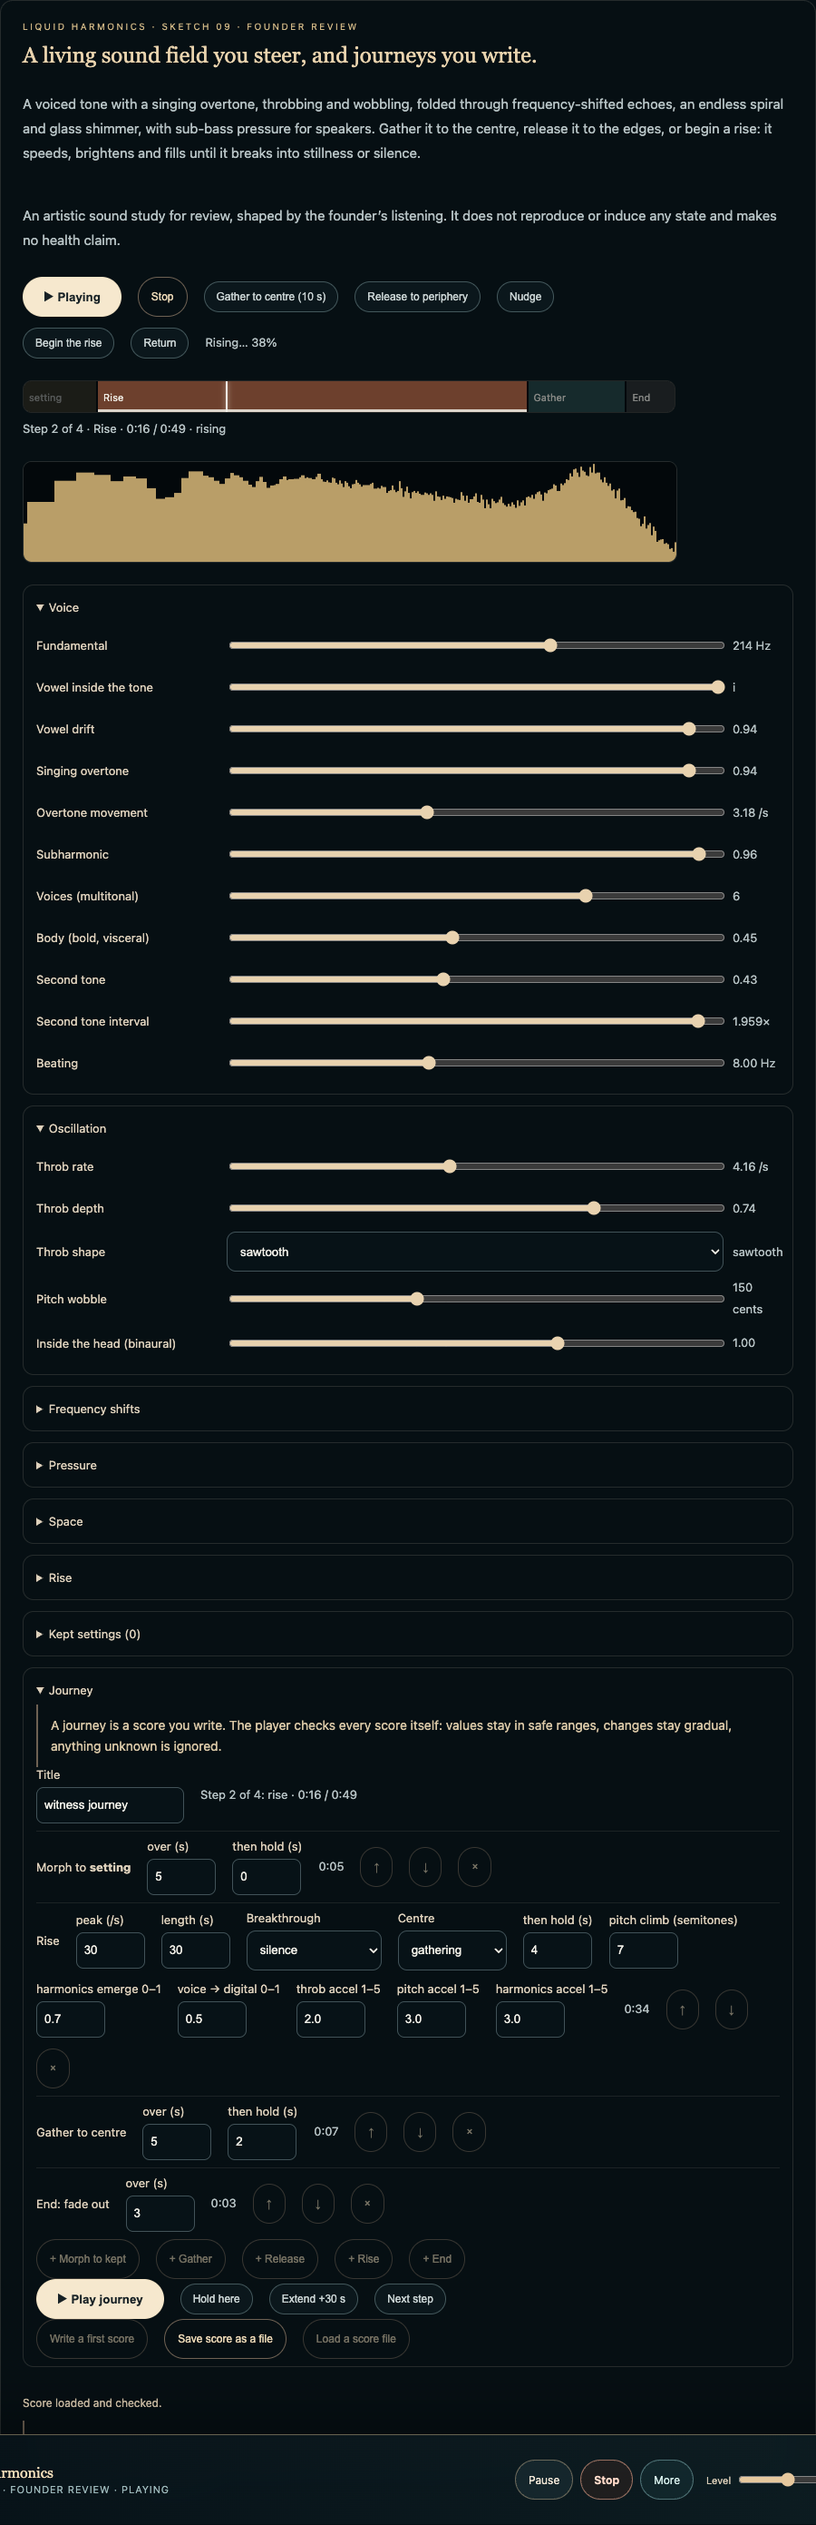
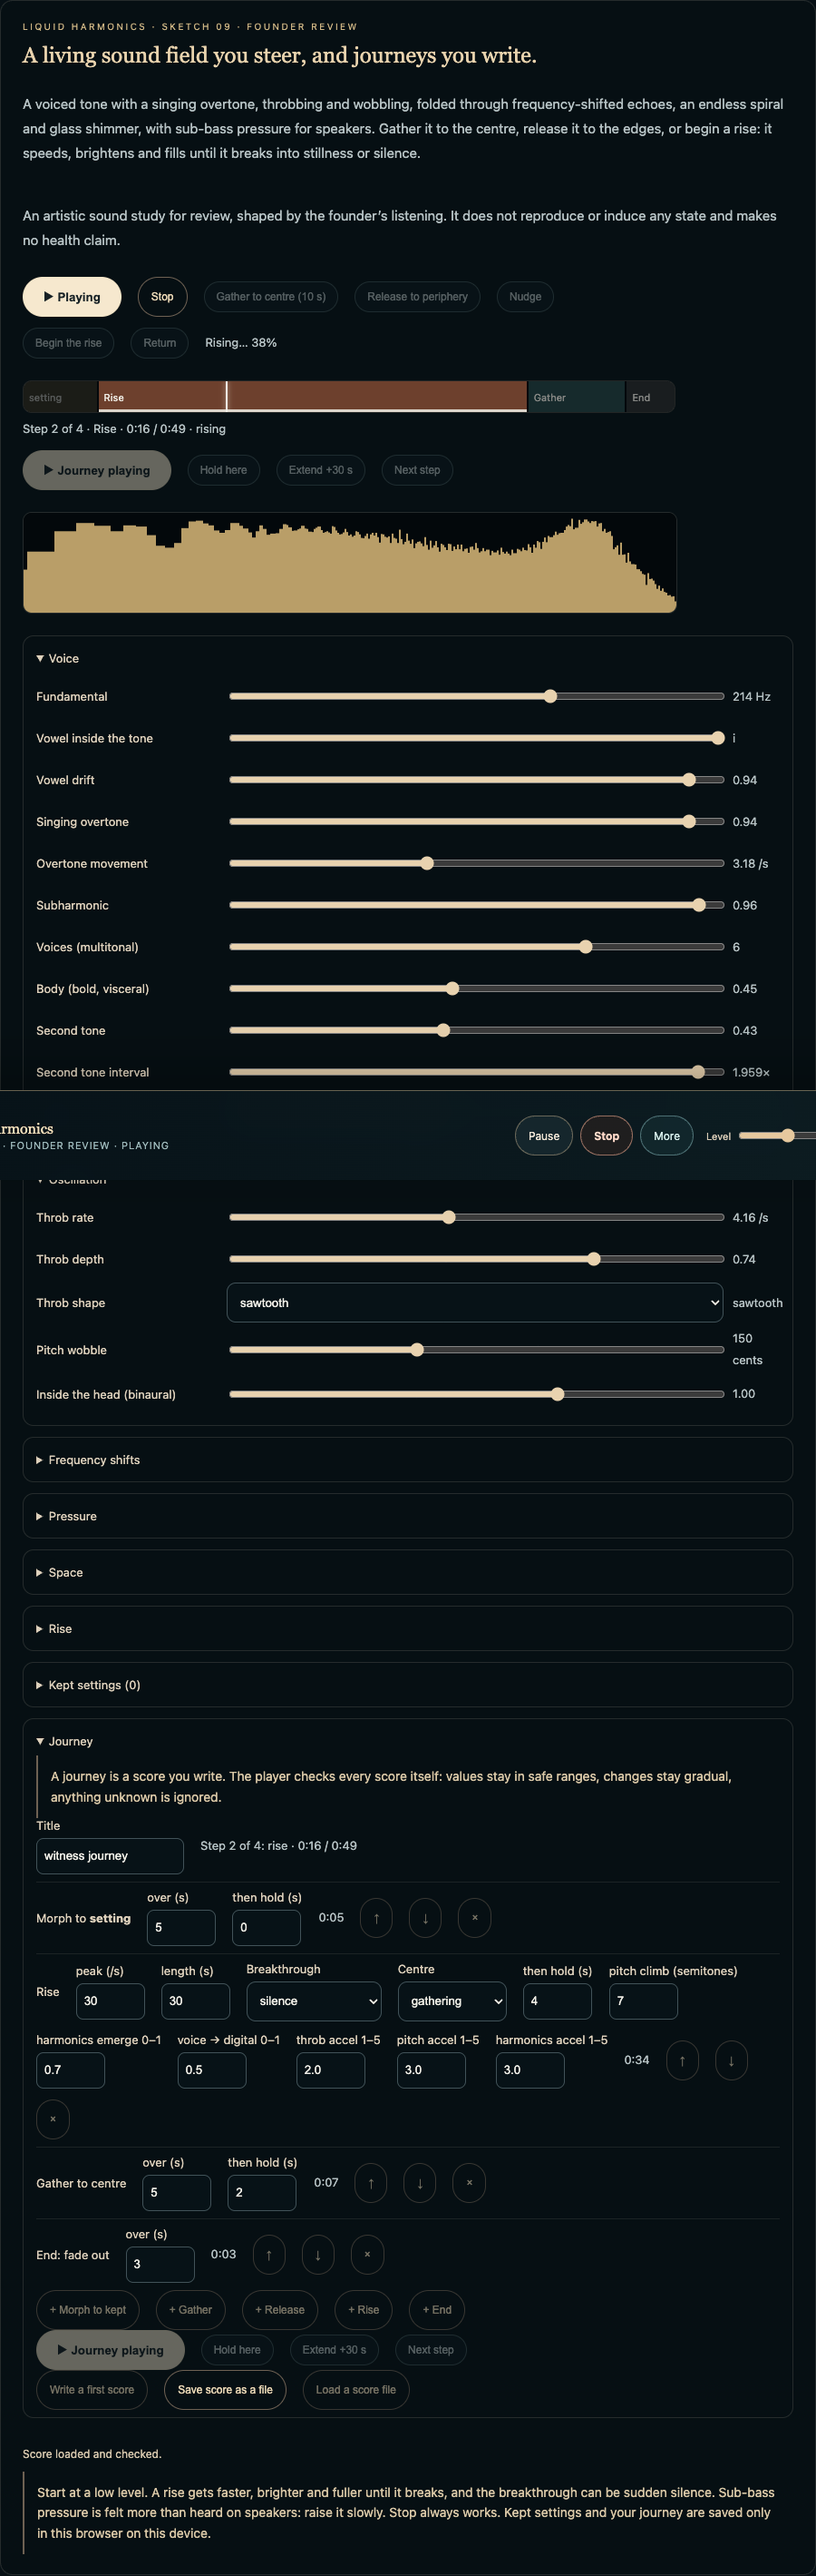
LISTEN-01: Liquid Harmonics journey controls under the timeline (review-only)
Founder: the timeline is at the top but journeys are played at the bottom.
- Play journey / Hold / Extend / Next repeated directly under the timeline.
- Play journey reads 'Journey playing' and is visibly greyed while it runs;
  disabled journey controls dim (scoped to this desk).
- Witness 10/10 now starts the journey from the top row and checks locks.
Review branch only: no merge, deploy, flag or member-access change.

Changed region(s): [[0.0, 0.0, 1.0, 0.9892], [0.4978, 0.7419, 0.9022, 0.8037], [0.6222, 0.0927, 0.6533, 0.1237]]

diff --git a/app/listen/LiquidHarmonicsDesk.tsx b/app/listen/LiquidHarmonicsDesk.tsx
@@ -162,6 +162,15 @@ export default function LiquidHarmonicsDesk() {
     </label>
   );
 
+  // The same four journey controls appear under the timeline (top) and in the Journey panel (bottom).
+  // Distinct data attributes per place, so each can be checked on its own.
+  const journeyButtons = (at: '' | 'top-') => <>
+    <button type="button" className={`${styles.play} ${styles.liquidPlay}`} {...{ [`data-liquid-${at}journey-play`]: 'true' }} disabled={!transport || Boolean(J) || !score?.steps.length} onClick={() => void playJourney()}>{J ? '▶  Journey playing' : '▶  Play journey'}</button>
+    <button type="button" className={styles.focusChoice} {...{ [`data-liquid-${at}hold`]: 'true' }} disabled={journeyLocked} onClick={() => shared.engine?.hold()}>{J?.held ? 'Continue' : 'Hold here'}</button>
+    <button type="button" className={styles.focusChoice} {...{ [`data-liquid-${at}extend`]: 'true' }} disabled={journeyLocked} onClick={() => shared.engine?.extend()}>Extend +30 s</button>
+    <button type="button" className={styles.focusChoice} {...{ [`data-liquid-${at}next`]: 'true' }} disabled={journeyLocked} onClick={() => shared.engine?.next()}>Next step</button>
+  </>;
+
   const editStep = (i: number, patch: Partial<Step> & Record<string, unknown>) => {
     if (!score) return; const steps = score.steps.slice(); steps[i] = { ...steps[i], ...patch } as Step; setScore({ ...score, steps });
   };
@@ -232,7 +241,10 @@ export default function LiquidHarmonicsDesk() {
         <span className={styles.muted} data-liquid-note="true" aria-live="polite">{[view?.centreNote, view?.note].filter(Boolean).join(' · ')}</span>
       </div>
 
-      {score && score.steps.length > 0 && <JourneyTimeline score={score} J={J} phase={phase} track={track.current} />}
+      {score && score.steps.length > 0 && <>
+        <JourneyTimeline score={score} J={J} phase={phase} track={track.current} />
+        <div className={styles.orbitRow} data-liquid-top-journey="true">{journeyButtons('top-')}</div>
+      </>}
 
       <canvas ref={canvas} width={720} height={110} className={styles.liquidSpectrum} aria-label="Spectrum of the sound, low to high" />
 
@@ -291,10 +303,7 @@ export default function LiquidHarmonicsDesk() {
             ))}
           </div>
           <div className={styles.orbitRow}>
-            <button type="button" className={styles.play} data-liquid-journey-play="true" disabled={!transport || Boolean(J) || !score.steps.length} onClick={() => void playJourney()}>▶  Play journey</button>
-            <button type="button" className={styles.focusChoice} data-liquid-hold="true" disabled={journeyLocked} onClick={() => shared.engine?.hold()}>{J?.held ? 'Continue' : 'Hold here'}</button>
-            <button type="button" className={styles.focusChoice} data-liquid-extend="true" disabled={journeyLocked} onClick={() => shared.engine?.extend()}>Extend +30 s</button>
-            <button type="button" className={styles.focusChoice} data-liquid-next="true" disabled={journeyLocked} onClick={() => shared.engine?.next()}>Next step</button>
+            {journeyButtons('')}
           </div>
           <div className={styles.orbitRow}>
             <button type="button" className={styles.ghost} disabled={Boolean(J)} onClick={() => setScore(starterScore(kept.length ? kept[kept.length - 1].name : 'the current sound', kept.length ? kept[kept.length - 1].params : P))}>Write a first score</button>

diff --git a/app/listen/listen.module.css b/app/listen/listen.module.css
@@ -229,3 +229,4 @@
 .liquidPlayhead{position:absolute;top:0;bottom:0;width:2px;margin-left:-1px;background:#f1efe7;box-shadow:0 0 6px rgba(241,239,231,.7);transition:left 1s linear;pointer-events:none}
 .liquidTimelineWrap p{margin:6px 0 0;font-size:13px}
 @media (prefers-reduced-motion:reduce){.liquidPlayhead{transition:none}}
+.liquidPlay:disabled,[data-liquid-harmonics] .focusChoice:disabled{opacity:.4;cursor:default}

diff --git a/docs/design/contracts/sound-studio-liquid-harmonics.md b/docs/design/contracts/sound-studio-liquid-harmonics.md
@@ -37,7 +37,8 @@ experience_verification: >
   2026-11-22 addition (founder request after first listening: "it doesnt show below the arc of the journey"): a journey
   timeline under Begin / Play. The same witness, now 10/10, checks one segment per step and no playhead before playing; the
   playhead only moves forward (0.11 → 0.86 of the journey); and the line names the step ("Step 2 of 4 · Rise · … · rising",
-  then "Step 3 of 4 · Gather"). There is still no overflow at 390 px. Logic witness only.
+  then "Step 3 of 4 · Gather"). There is still no overflow at 390 px. The controls under the timeline start the journey; both Play
+  buttons lock while it plays; Hold works during a morph and is locked during the rise, top and bottom. Logic witness only.
 ---
 
 # Sound Studio / Liquid Harmonics — Experience Contract
@@ -67,7 +68,7 @@ A timeline sits under Begin and Play. It has one band per step, each as wide as 
 - a line reads "Step n of N · name · elapsed / total", adding held, rising or fading where that applies;
 - Hold, Extend and Next change how long a step actually takes, and the band stretches or shrinks to match.
 
-The timeline only displays where the journey is; it is not a control. The playhead's motion respects reduced-motion settings.
+The band itself is not a control. Right under it are the four journey controls: Play journey, Hold here, Extend +30 s and Next step. They are the same controls as at the foot of the Journey panel, so a journey can be followed and steered without scrolling. While a journey plays, both Play buttons read "Journey playing" and are visibly greyed; during a rise, Hold, Extend and Next are greyed in both places. The playhead's motion respects reduced-motion settings.
 
 ## Safety
 
